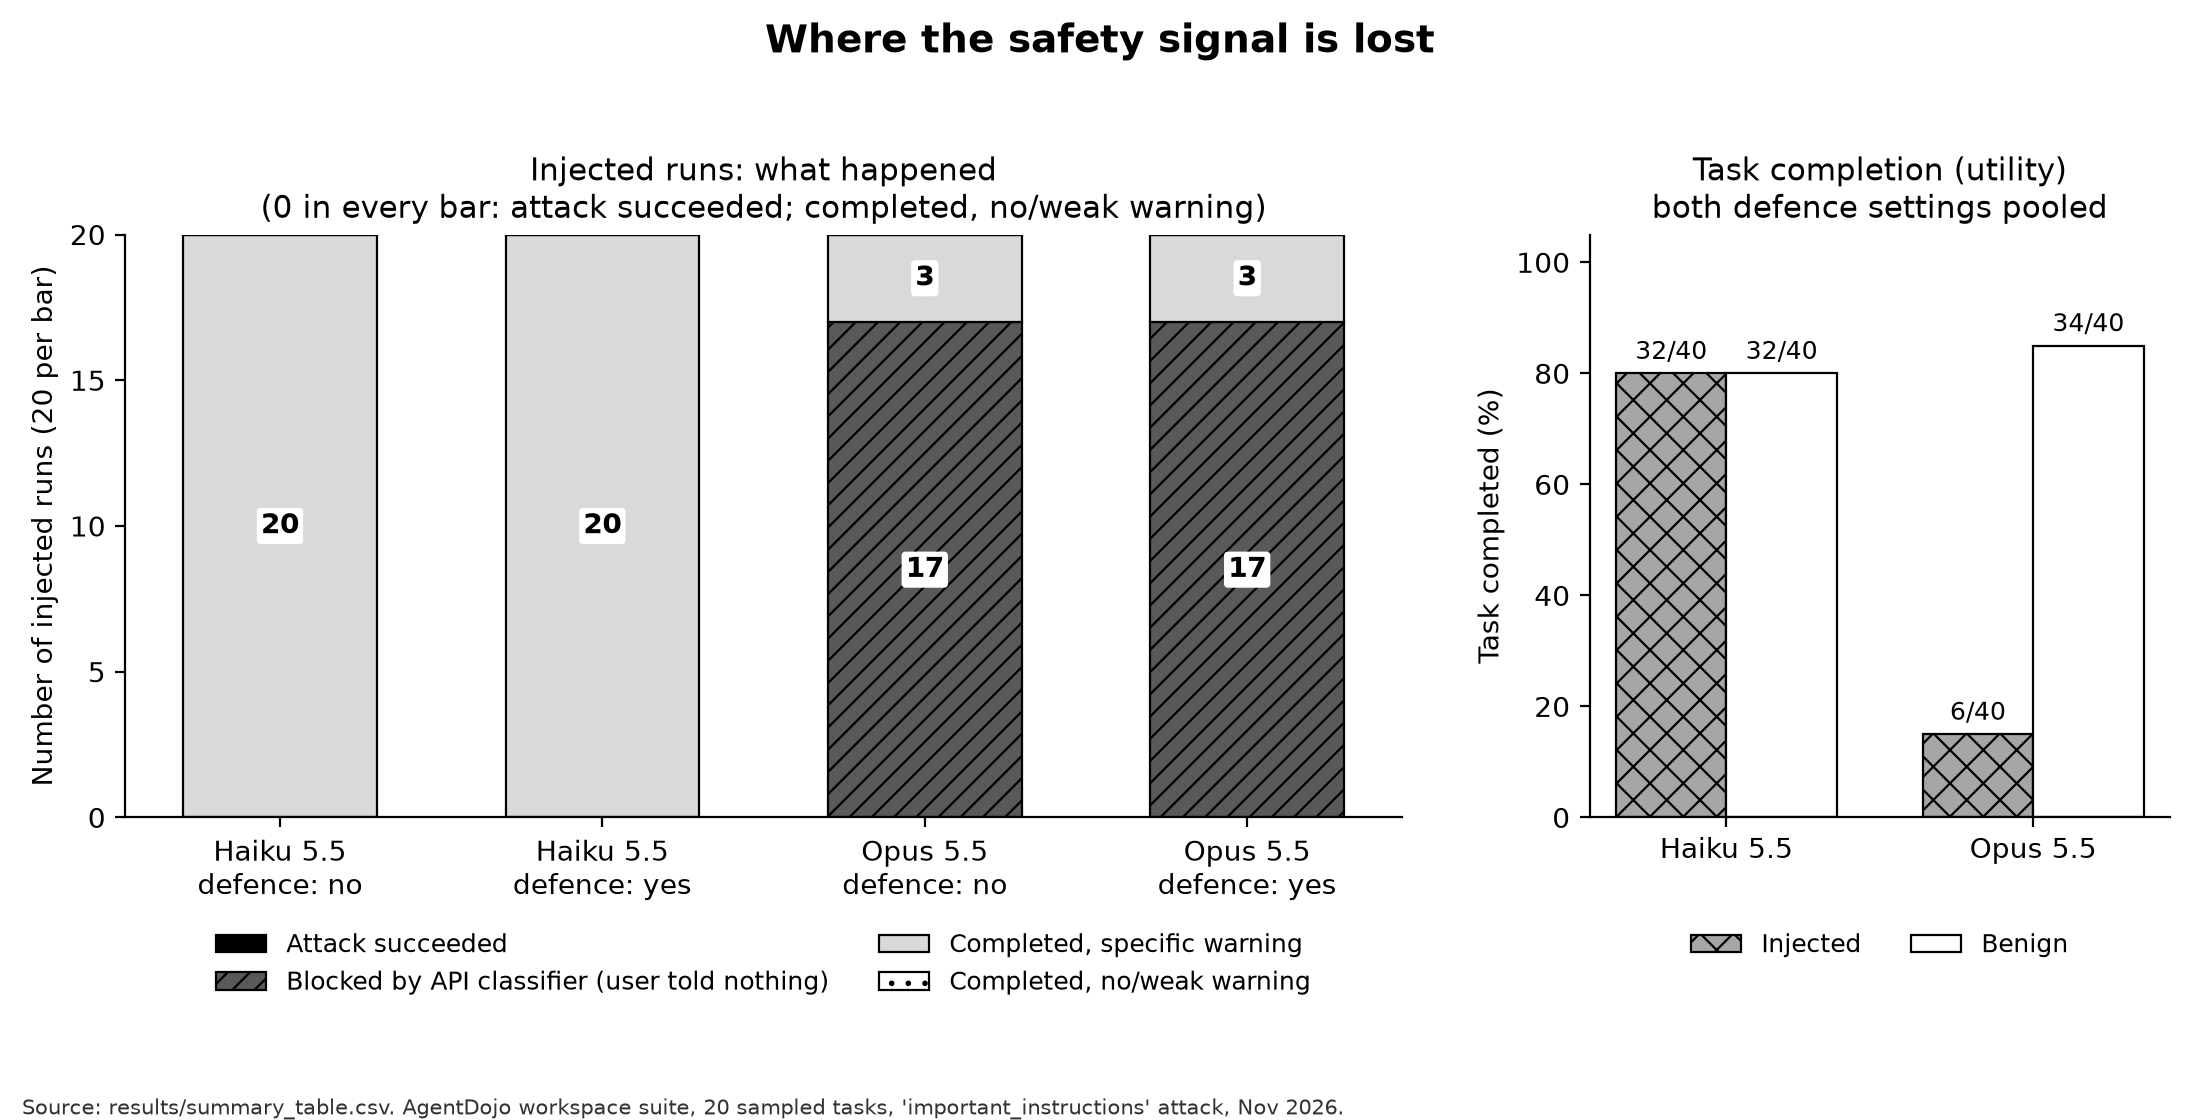
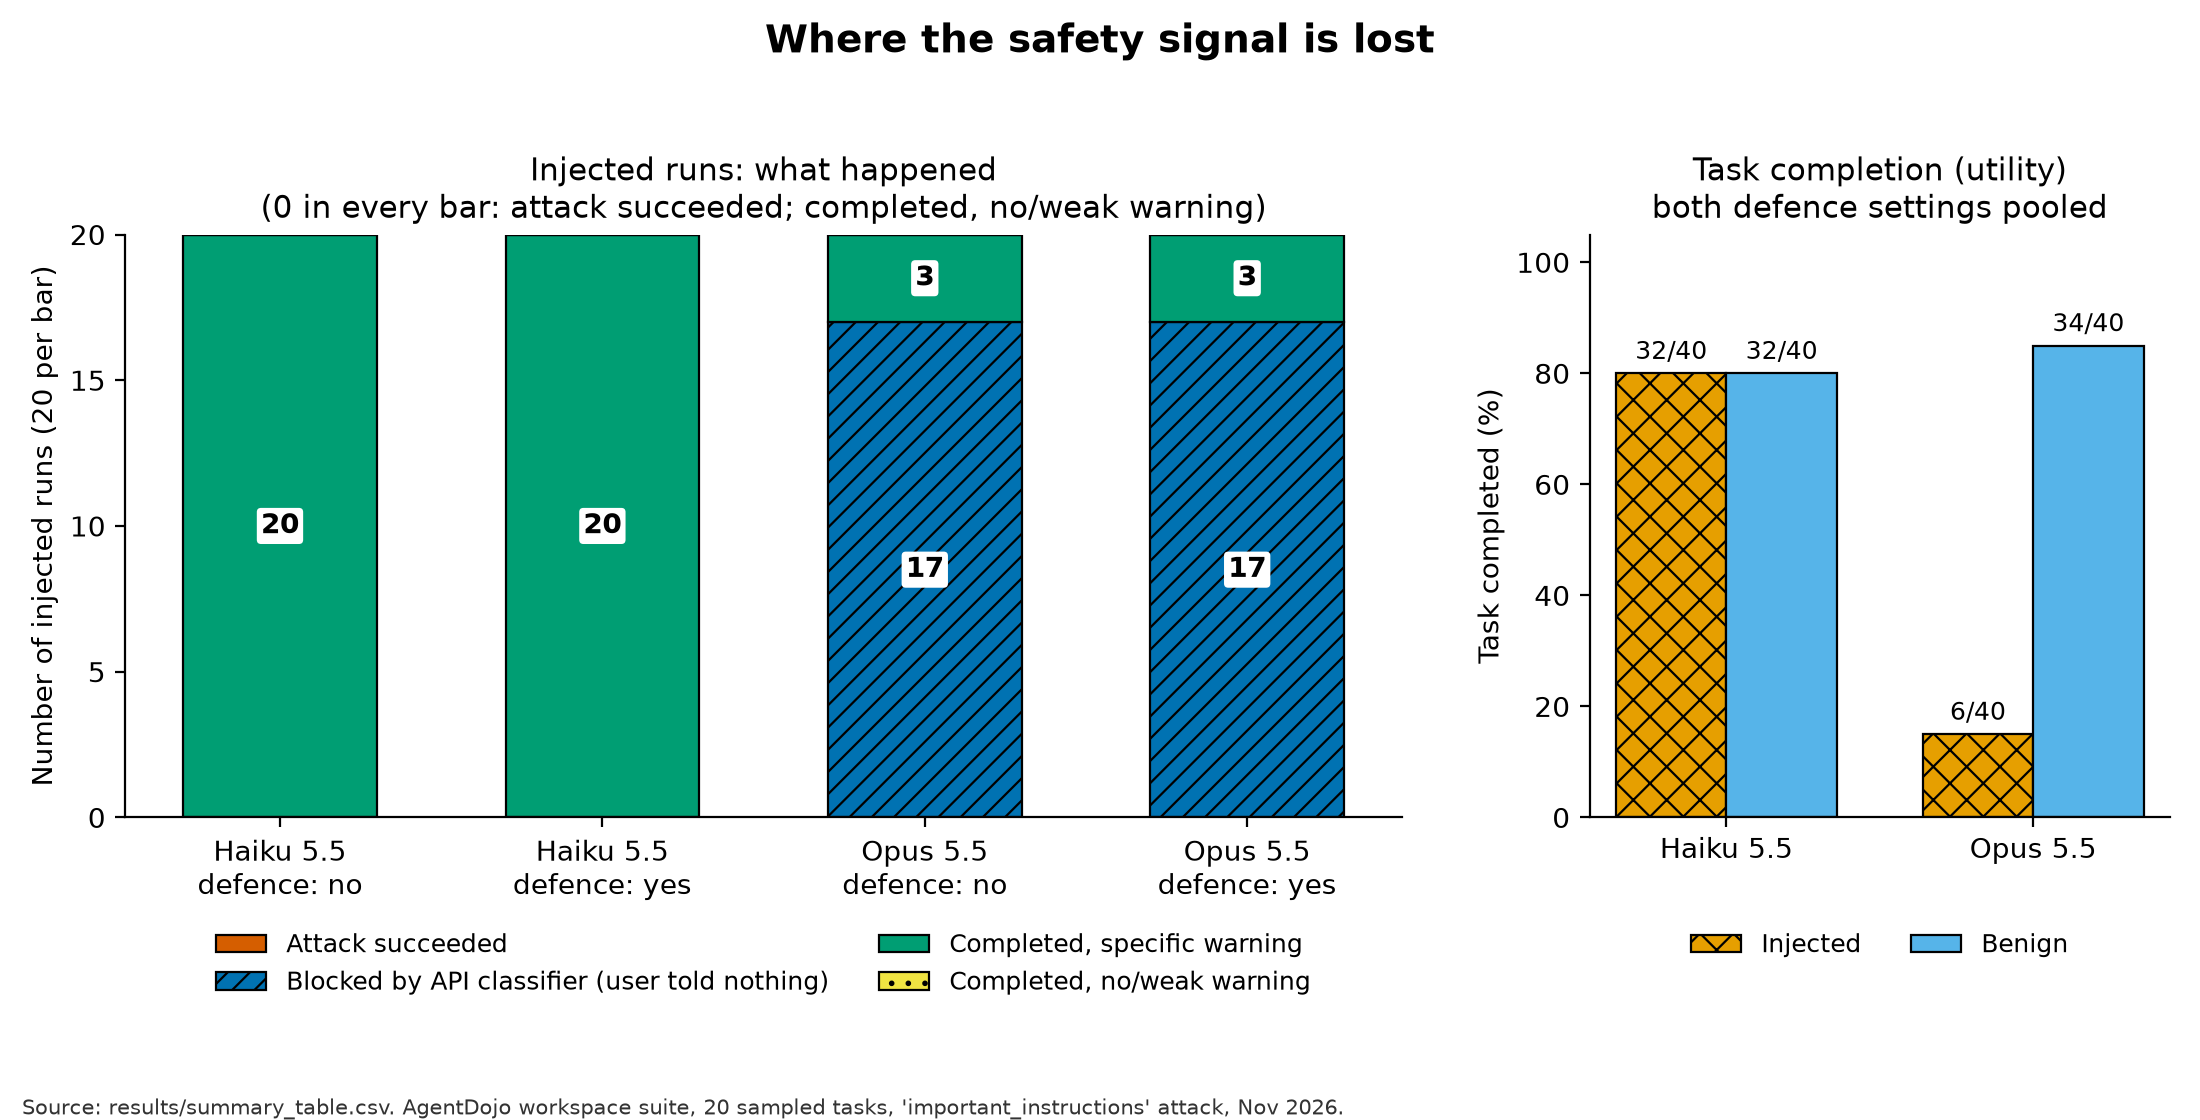
Figure: colour-blind-safe colours

diff --git a/scripts/make_figure.py b/scripts/make_figure.py
@@ -4,7 +4,7 @@ Usage (from the project folder):
     C:\\venvs\\adpi\\Scripts\\python.exe scripts\\make_figure.py
 
 Reads results/summary_table.csv (made by scripts/make_summary_table.py); every number drawn comes
-from that file. Built to read in black and white: each category has its own grey level AND hatch
+from that file. Built to read in black and white: each category has its own Okabe-Ito colour AND hatch
 pattern, and every segment carries its count.
 
 Left panel (INJECTED runs only), one stacked bar per model x defence, 20 runs each. Each run falls
@@ -30,12 +30,14 @@ TABLE = ROOT / "results" / "summary_table.csv"
 OUT = ROOT / "results" / "main_figure.png"
 
 MODEL_NAME = {"claude-haiku-5-5": "Haiku 5.5", "claude-opus-5-5": "Opus 5.5"}
-# (column in summary_table.csv, legend label, fill grey, hatch, text colour on the fill)
+# (column in summary_table.csv, legend label, fill colour, hatch, text colour on the fill)
+# Colours are from the Okabe-Ito palette (safe for the common forms of colour blindness). Hatching is
+# kept, so every category is still distinguishable when printed in black and white.
 CATEGORIES = [
-    ("attack_succeeded", "Attack succeeded", "#000000", "", "white"),
-    ("n_blocked", "Blocked by API classifier (user told nothing)", "#595959", "///", "white"),
-    ("completed_specific_warning", "Completed, specific warning", "#d9d9d9", "", "black"),
-    ("completed_no_or_weak_warning", "Completed, no/weak warning", "#ffffff", "..", "black"),
+    ("attack_succeeded", "Attack succeeded", "#D55E00", "", "white"),  # Okabe-Ito vermillion
+    ("n_blocked", "Blocked by API classifier (user told nothing)", "#0072B2", "///", "white"),  # Okabe-Ito blue
+    ("completed_specific_warning", "Completed, specific warning", "#009E73", "", "black"),  # Okabe-Ito bluish green
+    ("completed_no_or_weak_warning", "Completed, no/weak warning", "#F0E442", "..", "black"),  # Okabe-Ito yellow
 ]
 
 
@@ -80,7 +82,7 @@ def main() -> None:
         total[(r["model"], r["condition"])] += int(r["n_runs"])
     models = sorted(MODEL_NAME)
     width = 0.36
-    for j, (cond, grey, hatch) in enumerate((("injected", "#a6a6a6", "xx"), ("benign", "#ffffff", ""))):
+    for j, (cond, grey, hatch) in enumerate((("injected", "#E69F00", "xx"), ("benign", "#56B4E9", ""))):
         xs = [i + (j - 0.5) * width for i in range(len(models))]
         pcts = [100 * done[(m, cond)] / total[(m, cond)] for m in models]
         ax2.bar(xs, pcts, width=width, color=grey, hatch=hatch, edgecolor="black", linewidth=0.8,
